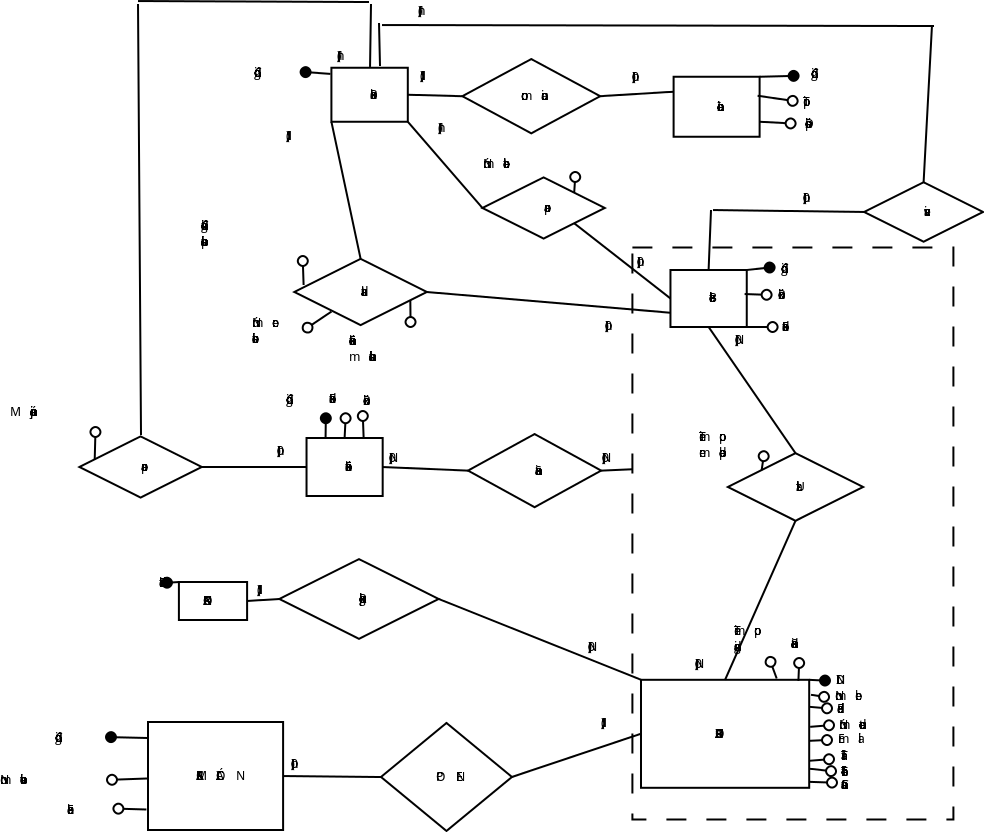
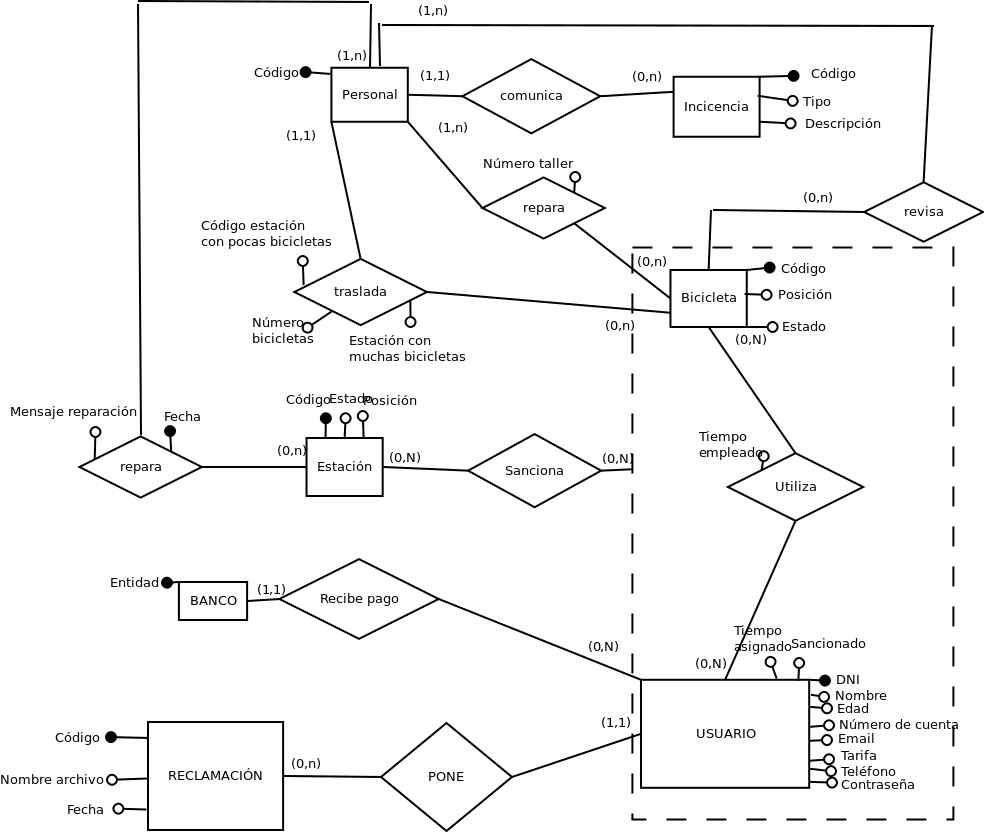
Modificación de la tabla ReparaEstacion

diff --git a/Implementacion/Paso a tablas/tablas.md b/Implementacion/Paso a tablas/tablas.md
@@ -19,7 +19,7 @@ con el atributo CodigoPersonal llave externa de Personal NotNull.
 - Revisa(\underline{CodigoBicicleta,CodigoPersonal})
 con el atributo CodigoBicicleta llave externa Bicicleta.  
 con el atributo CodigoPersonal llave externa Personal.  
-- ReparaEstacion(\underline{CodigoEstacion,CodigoPersonal},MensajeReparacion)  
+- ReparaEstacion(\underline{CodigoEstacion,CodigoPersonal,Fecha},MensajeReparacion)  
 con el atributo CodigoEstacion llave externa de Estación.  
 con el atributo CodigoPersonal llave externa de Personal.  
 - Sanciona(\underline{DNI,CodigoBicleta,CodigoEstacion})  

diff --git a/Implementacion/Paso a tablas/dependencias.md b/Implementacion/Paso a tablas/dependencias.md
@@ -36,7 +36,7 @@ F = {CodigoBicicleta->EstacionMuchasBicicletas}
 Pos eso.   
 
 ## Tabla ReparaEstacion   
-F = {}  
+F = {CodigoEstacion CodigoPersonal Fecha->MensajeReparacion}  
 
 ## Tabla Sanciona  
 Pos eso.  
